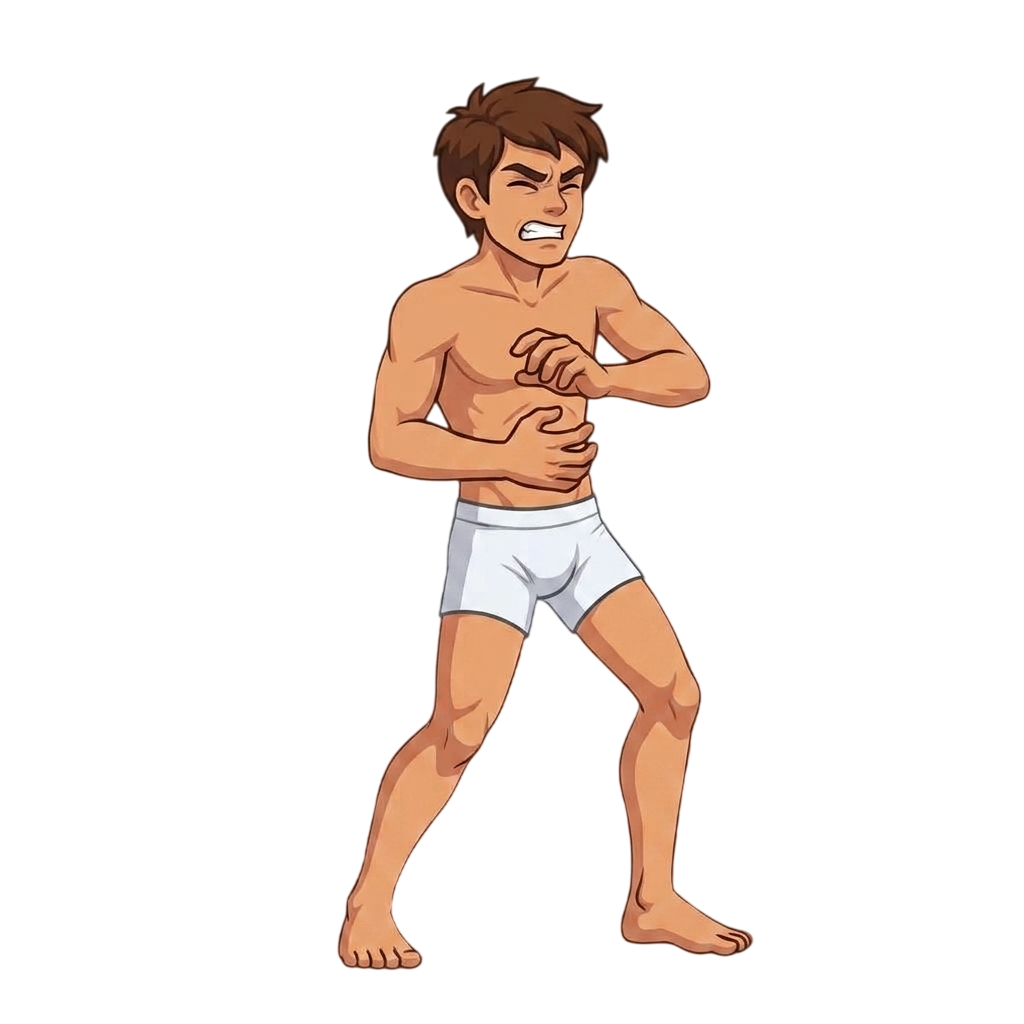
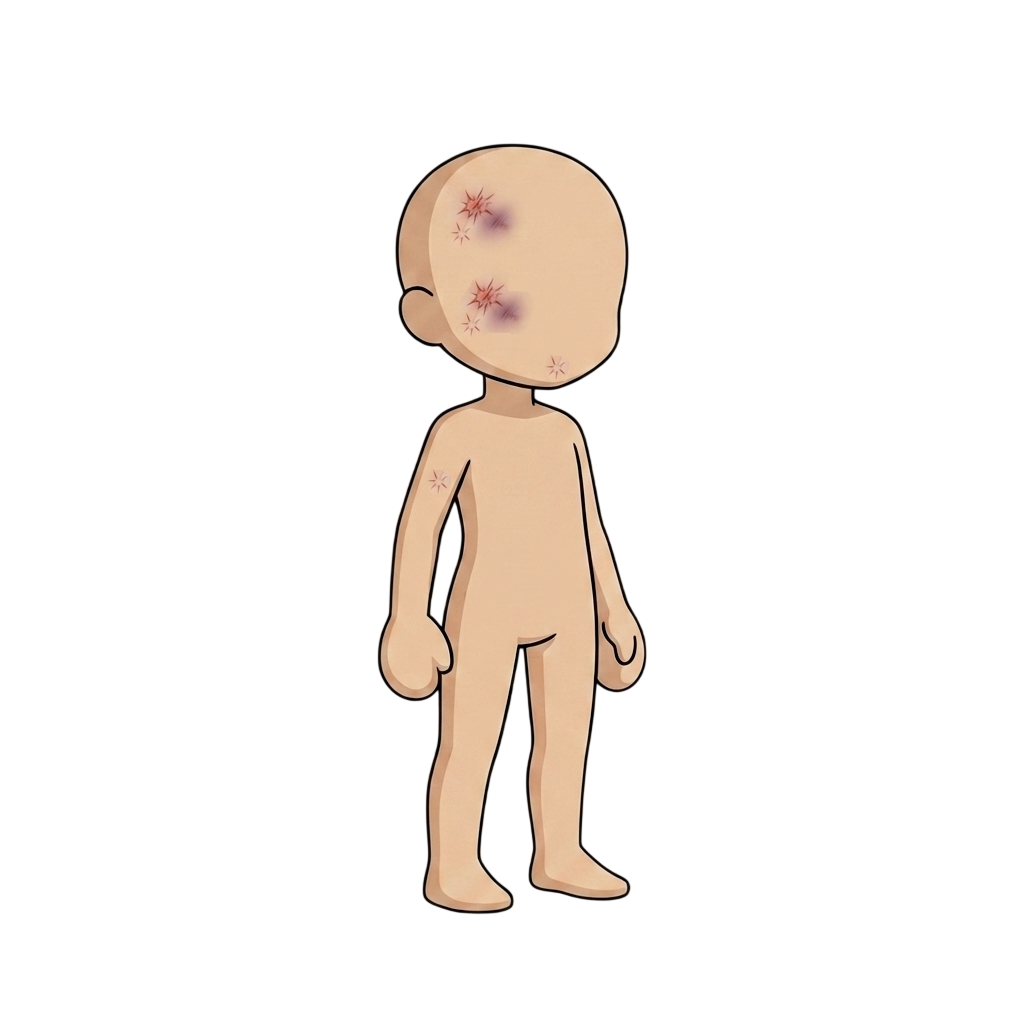
GP

Changed region(s): [[0.3125, 0.0625, 0.75, 0.9688]]

diff --git a/client/src/game/character/CharacterRenderer.ts b/client/src/game/character/CharacterRenderer.ts
@@ -31,6 +31,7 @@ type LayerKey =
     | 'pants'
     | 'gloves'
     | 'eyes'
+    | 'mouth'
     | 'hair'
     | 'helmet'
     | 'weapon'
@@ -124,7 +125,7 @@ export class CharacterRenderer {
         this.updateLayerTexture('body', characterAppearance.body, false);
         this.layers.get('body')?.image.setVisible(true);
 
-        const placeholderLayerKeys: LayerKey[] = ['torso', 'head', 'eyes', 'hair', 'backArm', 'frontArm', 'backLeg', 'frontLeg', 'backShoe', 'frontShoe', 'cape', 'top', 'pants', 'gloves', 'helmet', 'accessory', 'weapon', 'effect'];
+        const placeholderLayerKeys: LayerKey[] = ['torso', 'head', 'eyes', 'mouth', 'hair', 'backArm', 'frontArm', 'backLeg', 'frontLeg', 'backShoe', 'frontShoe', 'cape', 'top', 'pants', 'gloves', 'helmet', 'accessory', 'weapon', 'effect'];
         for (const key of placeholderLayerKeys) {
             this.layers.get(key)?.image.setVisible(false);
         }
@@ -297,6 +298,7 @@ export class CharacterRenderer {
             { key: 'frontArm', textureKey: 'character-arm-base', x: 23, y: 6, scale: 1 },
             { key: 'head', textureKey: 'character-head-base', x: 0, y: -28, scale: 1 },
             { key: 'eyes', textureKey: 'character-eyes-1', x: 0, y: -28, scale: 1 },
+            { key: 'mouth', textureKey: 'character-mouth-1', x: 0, y: 0, scale: 1 },
             { key: 'hair', textureKey: 'character-hair-default', x: 0, y: -33, scale: 1 },
             { key: 'helmet', textureKey: 'character-helmet-basic', x: 0, y: -36, scale: 1 },
             { key: 'accessory', textureKey: 'character-accessory-star', x: 16, y: -10, scale: 1 },
@@ -311,6 +313,9 @@ export class CharacterRenderer {
                 this.setBodyDisplaySize(image);
             }
             if (layer.key === 'eyes') {
+                image.setDepth(10);
+            }
+            if (layer.key === 'mouth') {
                 image.setDepth(10);
             }
             if (typeof layer.alpha === 'number') {
@@ -696,6 +701,20 @@ export class CharacterRenderer {
             eyes.x = 1;
             eyes.y = -18;
             eyes.setDepth(1);
+        }
+
+        const mouth = this.layers.get('mouth')?.image;
+        if (mouth) {
+            mouth.setVisible(true);
+            mouth.setTexture(
+                this.animationState === 'hurt'
+                    ? 'character-mouth-2'
+                    : 'character-mouth-1',
+            );
+            mouth.setScale(0.1);
+            mouth.x = 0;
+            mouth.y = -13.5;
+            mouth.setDepth(1);
         }
 
         if (body) {

diff --git a/client/src/game/character/ensureCharacterTextures.ts b/client/src/game/character/ensureCharacterTextures.ts
@@ -362,6 +362,12 @@ export function ensureCharacterTextures(scene: Phaser.Scene): void {
   ensureImageTexture(scene, 'character-gloves-1', '/assets/characters/player/gloves/gloves_1.png');
   ensureImageTexture(scene, 'character-gloves-1-jump', '/assets/characters/player/gloves/jump/gloves_1-jump.png');
   ensureImageTexture(scene, 'character-eyes-1', '/assets/characters/player/face/eyes/eyes_1.png');
+  ensureImageTexture(scene, 'character-mouth-1', '/assets/characters/player/face/mouth/mouth_1.png');
+  ensureImageTexture(
+  scene,
+  'character-mouth-2',
+  '/assets/characters/player/face/mouth/mouth_2.png',
+);
   ensureBodySpriteSheetTexture(
     scene,
     PLAYER_CHARACTER_BODY_TEXTURE_KEYS.walk,
@@ -369,7 +375,7 @@ export function ensureCharacterTextures(scene: Phaser.Scene): void {
     PLAYER_CHARACTER_ANIMATION_TIMING.fallbackWalkFrameCount,
   );
   ensureImageTexture(scene, PLAYER_CHARACTER_BODY_TEXTURE_KEYS.jump, '/assets/characters/player/body/jump.png');
-  ensureImageTexture(scene, PLAYER_CHARACTER_BODY_TEXTURE_KEYS.hurt, '/assets/characters/player/body/hurt.png');
+  ensureImageTexture(scene, PLAYER_CHARACTER_BODY_TEXTURE_KEYS.hurt, '/assets/characters/player/body/hurt.png', );
   generateTexture(scene, 'character-body-base', 96, 96, drawBody);
   generateTexture(scene, 'character-torso-base', 96, 96, drawTorso);
   generateTexture(scene, 'character-head-base', 96, 96, drawHead);

diff --git a/client/src/components/InventoryWindow.tsx b/client/src/components/InventoryWindow.tsx
@@ -306,6 +306,7 @@ export function InventoryWindow() {
                 <div className="inventory-character-avatar" aria-hidden="true">
                   <img className="avatar-layer avatar-base" src="/assets/characters/player/body/stand.png" alt="" />
                   <img className="avatar-layer avatar-face-eyes" src="/assets/characters/player/face/eyes/eyes_1.png" alt="" />
+                  <img className="avatar-layer avatar-face-mouth" src="/assets/characters/player/face/mouth/mouth_1.png" alt="" />
                   {pantsEquipmentPath ? <img className="avatar-layer avatar-pants" src={pantsEquipmentPath} alt="" /> : null}
                   {shoesEquipmentPath ? <img className="avatar-layer avatar-shoes" src={shoesEquipmentPath} alt="" /> : null}
                   {topEquipmentPath ? <img className="avatar-layer avatar-top" src={topEquipmentPath} alt="" /> : null}

diff --git a/client/src/styles.css b/client/src/styles.css
@@ -392,7 +392,16 @@ input {
     width: 210px;
     height: 210px;
     left: 50%;
-    top: 40%;
+    top: 38%;
+    object-fit: contain;
+    transform: translate(-50%, -44%);
+}
+
+.avatar-face-mouth {
+    width: 210px;
+    height: 210px;
+    left: 50%;
+    top: 41%;
     object-fit: contain;
     transform: translate(-50%, -44%);
 }
@@ -418,6 +427,10 @@ input {
 }
 
 .avatar-face-eyes {
+    z-index: 7;
+}
+
+.avatar-face-mouth {
     z-index: 7;
 }
 
